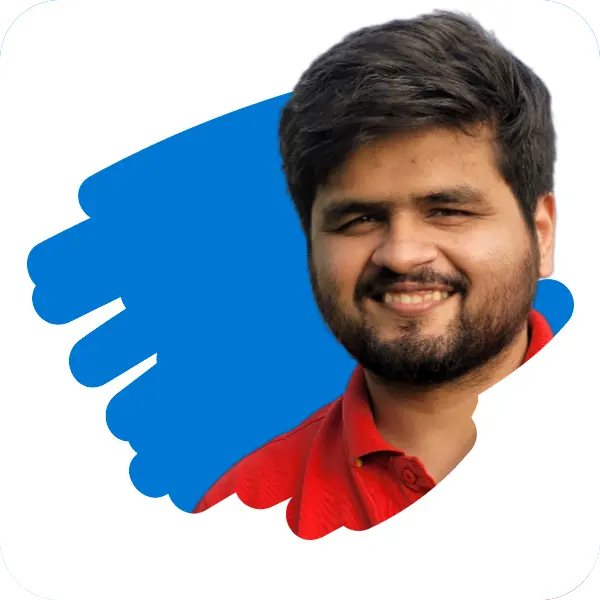
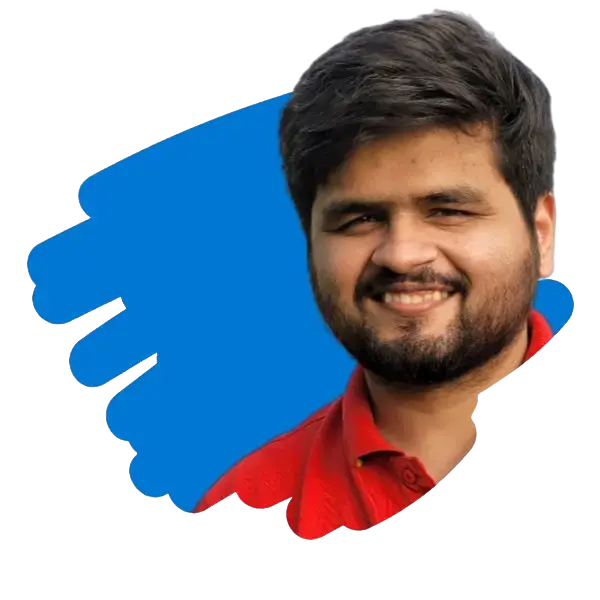
👌 IMPROVE: Improve profile picture and change background color

diff --git a/src/Components/HomePage/AboutSection.jsx b/src/Components/HomePage/AboutSection.jsx
@@ -19,7 +19,7 @@ function AboutSection() {
                     </div>
                     <ResumeButton id={`resume-button-2`} />
                 </div>
-                <div style={{minWidth: 312}}>
+                <div style={{minWidth: 312, width: "80%"}}>
                     <img src={profile} alt="" width="100%"/>
                 </div>
             </div>

diff --git a/src/App.css b/src/App.css
@@ -1,4 +1,9 @@
 @import url("../node_modules/bootstrap/scss/bootstrap.scss");
+
+#root {
+  background-color: rgba(215, 229, 250, 0.15);
+}
+
 body {
   margin: 0px;
   padding: 0px;

diff --git a/src/App.scss b/src/App.scss
@@ -9,6 +9,7 @@ body{
     margin: 0px;
     padding: 0px;
     color: $body-color;
+    background-color: rgba(255,245,245,0.46);
 }
 
 .cursor-pointer{
